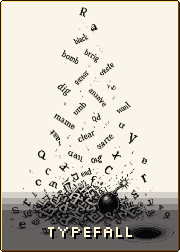
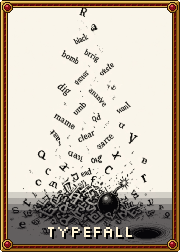
Cards: hand-drawn AI Quiz and Ashaad (real game sprite) faces; slim card-back frame on every face

Changed region(s): [[0.0, 0.0, 1.0, 1.0]]

diff --git a/cards/cards.js b/cards/cards.js
@@ -24,7 +24,7 @@ const floor=$('floor'),table=$('table'),deck=$('deck'),box=$('box'),deckhit=$('d
 const medal=box.querySelector('.medal'),rays=box.querySelector('.rays'),pets=[...box.querySelectorAll('.pet')],glint=box.querySelector('.glint');
 $('sites').innerHTML=SITES.map(p=>`<a href="${p[2]}">${p[1]}</a>`).join('');
 // preload every face so swapping the top card's face is instant
-const FACE=SITES.map(p=>{const i=new Image();i.src='img/'+p[0]+'.png?v=3';return i});
+const FACE=SITES.map(p=>{const i=new Image();i.src='img/'+p[0]+'.png?v=4';return i});
 const wait=ms=>new Promise(r=>setTimeout(r,ms));
 function A(el,kf,o){const a=el.animate(kf,Object.assign({fill:'forwards'},o));return a.finished.then(()=>{try{a.commitStyles()}catch(e){}a.cancel()},()=>{})}
 let s=1.8,p=1,B=2,vw=0,vh=0,tx0=0,ty0=0;
